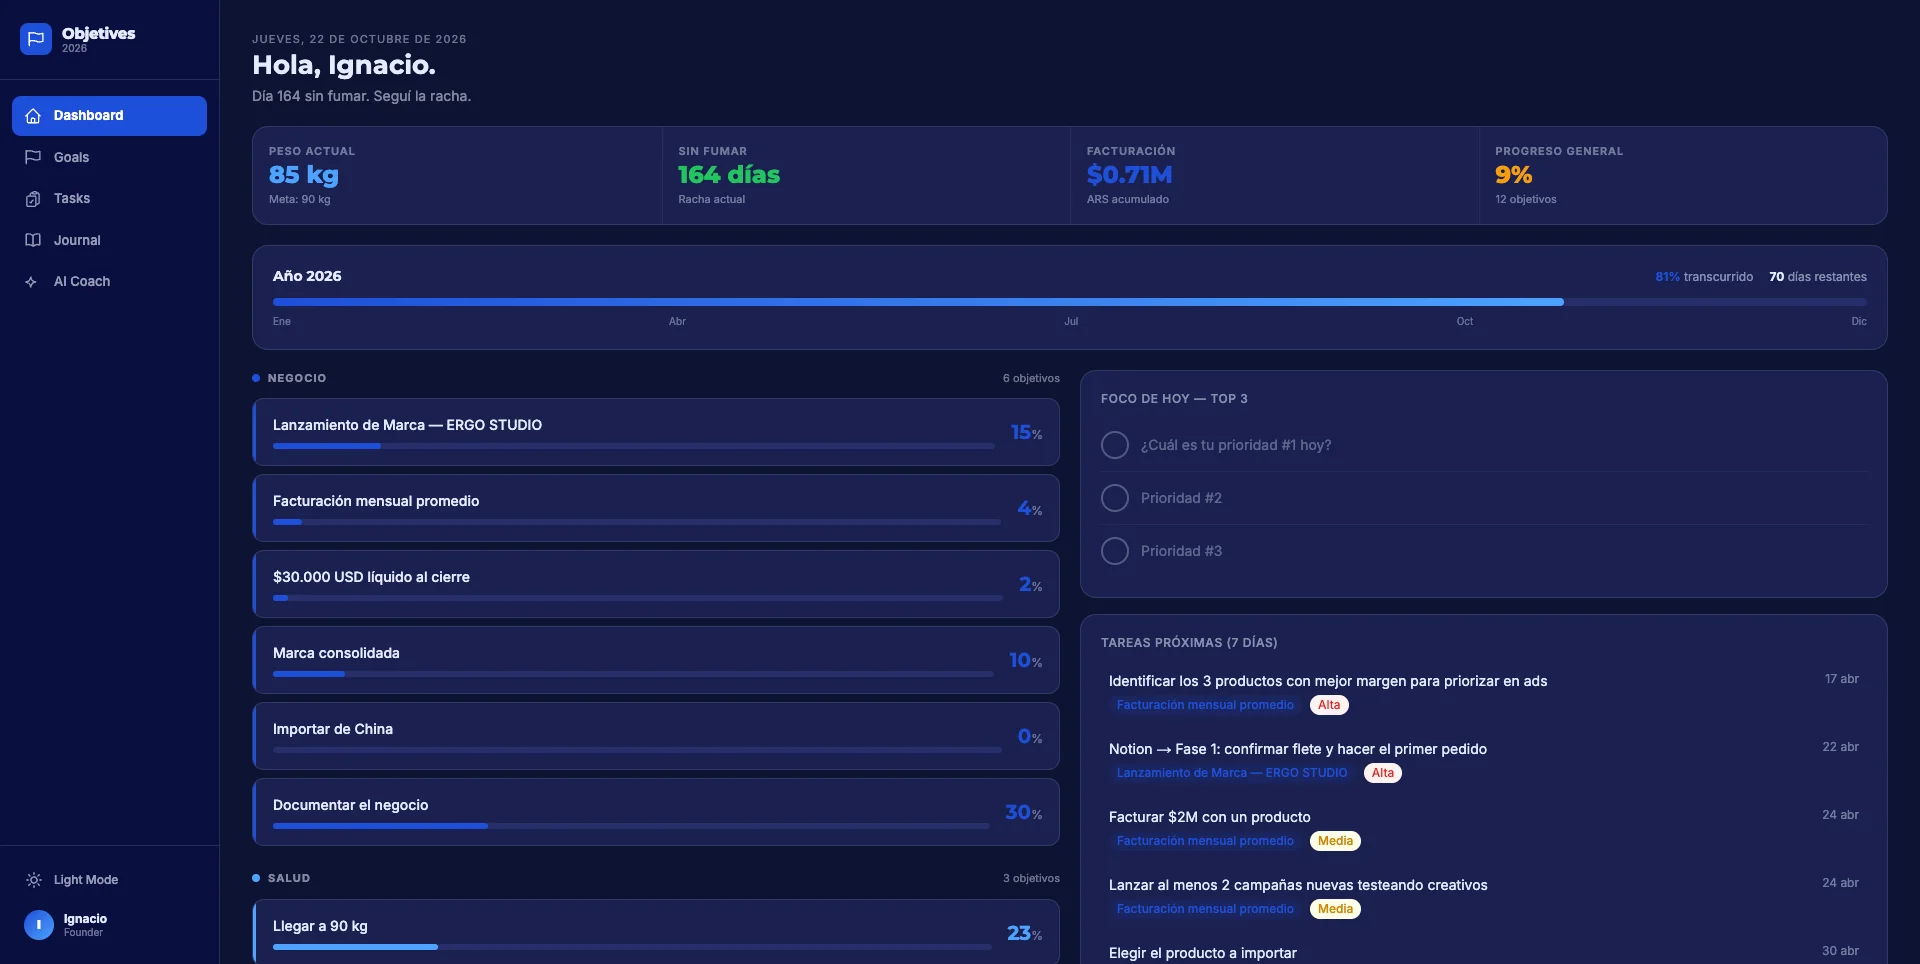
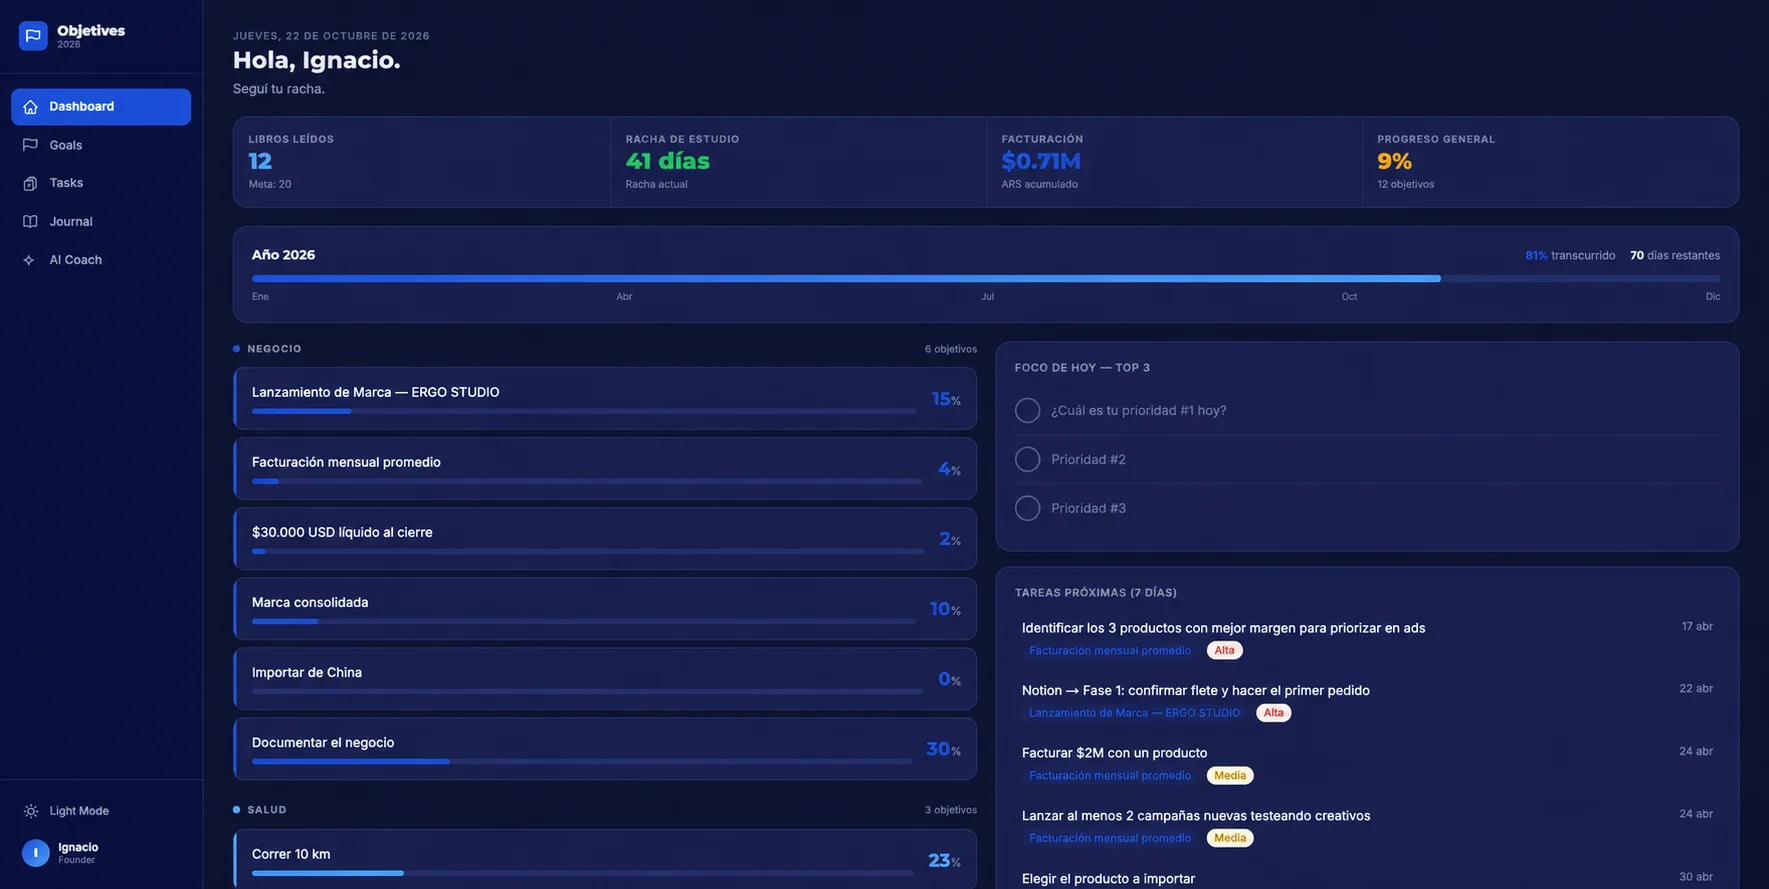
Rediseño de secciones, selector y aviso propios, burbuja de chat, recorte y modal de capturas
- Proyectos: marco de ventana, recorte por proyecto (crop en i18n) y modal con la captura completa.
- Otros: marcador +/×, meta en Geist. Stack: filas por grupo, items sin caja.
- Select.astro y FieldError.astro reemplazan el select y el globo de validación nativos.
- Chat: barra pasa a burbuja con panel, globito de invitación a los 7s y pulso hasta la primera apertura.
- Dial: Inicio exacto arriba de todo, mejor contraste y alineación. Etiquetas en minúsculas.
- Capturas de Objetivos y Transporte sin datos personales.

diff --git a/src/i18n.ts b/src/i18n.ts
@@ -18,7 +18,7 @@ export const t = {
     stack: ['APIs REST', 'Bases de datos relacionales', 'Integraciones con servicios externos', 'IA aplicada'],
     proy: ['Transporte', 'Caja de feria', 'Miami Getaway', 'Objetivos con IA'],
     cont: 'Escribime directo o dejá tu pregunta en el chat de abajo.',
-    chat: { ph: 'Preguntame por mis proyectos…', label: 'Pregunta', send: 'Enviar', left: 'te quedan {n} preguntas hoy', wait: 'Pensando…', limit: 'Llegaste al límite de hoy. Escribime por mail y te respondo yo.', err: 'No pude responder ahora. Probá de nuevo en un rato o escribime por mail.' },
+    chat: { title: 'Preguntale a mi asistente', greet: 'Preguntame por mis proyectos, el stack o cómo trabajo.', nudge: 'Preguntame por mis proyectos', open: 'Abrir el chat', close: 'Cerrar el chat', ph: 'Escribí tu pregunta…', label: 'Pregunta', send: 'Enviar', left: 'te quedan {n} preguntas hoy', wait: 'Pensando…', limit: 'Llegaste al límite de hoy. Escribime por mail y te respondo yo.', err: 'No pude responder ahora. Probá de nuevo en un rato o escribime por mail.' },
     links: [['proyectos', '~/proyectos', '↵'], ['otros', '~/stack', '↵'], ['contacto', '~/contacto', '↵']],
     hStack: 'Con qué trabajo',
     subStack: 'Las herramientas que uso día a día para llevar un sistema de la idea a producción.',
@@ -26,27 +26,27 @@ export const t = {
     hOther: 'Otros proyectos',
     subOther: 'Más sistemas, resumidos. Tocá uno para abrirlo.',
     others: [
-      { name: 'Libretita', meta: 'app para oficios · piloto', desc: 'App de celular para el herrero, mecánico, electricista o plomero que trabaja solo y hoy lleva todo en una libreta y en WhatsApp. Arma presupuestos que el cliente acepta desde un link y los baja a PDF, anota trabajos, cobros y gastos, y dice cuánto le quedó en el mes. Está en piloto en San Francisco.' },
-      { name: 'Control de flota', meta: 'mantenimiento · constructora', desc: 'Reemplaza el Excel de horas y kilómetros de los 48 equipos de una constructora y avisa qué services están vencidos, que antes nadie veía.' },
+      { name: 'Libretita', meta: 'app para oficios, piloto', desc: 'App de celular para el herrero, mecánico, electricista o plomero que trabaja solo y hoy lleva todo en una libreta y en WhatsApp. Arma presupuestos que el cliente acepta desde un link y los baja a PDF, anota trabajos, cobros y gastos, y dice cuánto le quedó en el mes. Está en piloto en San Francisco.' },
+      { name: 'Control de flota', meta: 'mantenimiento, constructora', desc: 'Reemplaza el Excel de horas y kilómetros de los 48 equipos de una constructora y avisa qué services están vencidos, que antes nadie veía.' },
       { name: 'Centro de control de organIA', meta: 'agencia', desc: 'Panel de mi agencia para todo el ciclo de un cliente: lead, propuesta, onboarding, tickets y cobros. Los sistemas de cada cliente le reportan tickets y su estado por API.' },
-      { name: 'Backoffice de e-commerce', meta: 'administración · IA', desc: 'Sistema interno que contesta cuánta plata entró y salió y qué se viene a cobrar. Un agente de IA anticipa cuándo va a hacer falta pedir más stock y analiza en qué se van los gastos.' },
-      { name: 'Finanzas personales', meta: 'app propia · IA', desc: 'App de uso propio para ordenar ingresos y gastos, con un agente de IA que analiza mis finanzas. Por un bot de Telegram me manda avisos y recibe gastos e ingresos. También analiza mi cartera de inversión según mi perfil de inversor y cada día me reporta el cierre del mercado, resaltando las acciones que tengo.' },
-      { name: 'App de escritorio con Electron', meta: 'escritorio · migración', desc: 'Migración de tecnología para Coliseo San Francisco: la aplicación de escritorio de su ERP pasó de .NET a JavaScript, empaquetada con Electron. Hoy los clientes del ERP usan la nueva versión en lugar de la de .NET, y la migración bajó el arranque de 7 segundos a 2.' },
+      { name: 'Backoffice de e-commerce', meta: 'administración, IA', desc: 'Sistema interno que contesta cuánta plata entró y salió y qué se viene a cobrar. Un agente de IA anticipa cuándo va a hacer falta pedir más stock y analiza en qué se van los gastos.' },
+      { name: 'Finanzas personales', meta: 'app propia, IA', desc: 'App de uso propio para ordenar ingresos y gastos, con un agente de IA que analiza mis finanzas. Por un bot de Telegram me manda avisos y recibe gastos e ingresos. También analiza mi cartera de inversión según mi perfil de inversor y cada día me reporta el cierre del mercado, resaltando las acciones que tengo.' },
+      { name: 'App de escritorio con Electron', meta: 'escritorio, migración', desc: 'Migración de tecnología para Coliseo San Francisco: la aplicación de escritorio de su ERP pasó de .NET a JavaScript, empaquetada con Electron. Hoy los clientes del ERP usan la nueva versión en lugar de la de .NET, y la migración bajó el arranque de 7 segundos a 2.' },
       { name: 'Logística de cereal en WinForms', meta: 'escritorio', desc: 'Aplicación de escritorio para ordenar un negocio que conecta camioneros con productores de cereal para llevar sus cosechas al puerto. Guarda todos los viajes y, en cada uno, la carta de porte, los pagos y los adelantos.' },
     ],
     hContact: 'Hablemos',
     subContact: '¿Tenés un sistema para construir, o un equipo que busca desarrollador? Escribime.',
     copy: 'Copiar',
-    kContact: 'Contacto',
-    form: { name: 'Nombre', mail: 'Email', reason: 'Motivo', reasons: ['Un sistema para mi negocio', 'Oferta laboral', 'Otra cosa'], msg: 'Mensaje', msgPh: 'Contame qué necesitás', send: 'Enviar mensaje', ok: 'Mensaje enviado. Te respondo pronto.', err: 'No se pudo enviar. Escribime a' },
+    form: { name: 'Nombre', mail: 'Email', reason: 'Motivo', reasons: ['Un sistema para mi negocio', 'Oferta laboral', 'Otra cosa'], msg: 'Mensaje', msgPh: 'Contame qué necesitás', send: 'Enviar mensaje', required: 'Completá este campo', badMail: 'Poné un email válido', ok: 'Mensaje enviado. Te respondo pronto.', err: 'No se pudo enviar. Escribime a' },
+    zoom: 'Ver completa', closeShot: 'Cerrar',
     hProj: 'Lo que construí, y para qué servía',
     subProj: 'Cuatro sistemas a fondo: qué problema resolvían y cómo están hechos.',
     shot: 'captura (reemplazar)',
     cases: [
-      { tag: 'SaaS multi-tenant', name: 'Transporte', img: '/proyectos/transporte.webp', desc: 'Nació para un camionero que quería saber cuánto gana en cada viaje. Registra kilómetros, litros y gastos, calcula la ganancia de cada viaje y anota los cobros en efectivo y en cheques de terceros, con un tablero por mes. Cada empresa de transporte ve solo sus datos.', chips: ['Next.js', 'NestJS', 'Prisma', 'PostgreSQL'] },
-      { tag: 'Punto de venta', name: 'Caja de feria', img: '/proyectos/caja-de-feria.webp', desc: 'Reemplazó la carga a mano de un puesto de librería en una feria. Los vendedores toman pedidos desde el celular, la caja los recibe en tiempo real y el stock se descuenta solo, incluso si se anula un cobro. Reportes exportables a Excel y PDF, y varios negocios aislados entre sí.', chips: ['Next.js', 'Supabase Realtime', 'Playwright'] },
-      { tag: 'Alquileres · reservas', name: 'Miami Getaway', img: '/proyectos/miami-getaway.webp', desc: 'Alquiler de apartamentos, villas, yates y autos en Miami: reservas, fotos de cada propiedad y reseñas sincronizadas desde Google. Detrás, un panel de administración desde donde el dueño maneja el negocio completo: propiedades, reservas, clientes, pagos, proveedores, comprobantes en PDF y un resumen mensual de cómo le fue.', chips: ['React', 'Express', 'PostgreSQL', 'Cloudinary'] },
-      { tag: 'App personal · IA', name: 'Objetivos con IA', img: '/proyectos/objetivos-con-ia.webp', desc: 'App para fijar y seguir objetivos, con un coach de IA que antes de responder lee tus objetivos, tareas pendientes y reflexiones, compara tu avance con el del año y te dice honestamente qué está atrasado. Recuerda lo que le contaste entre conversaciones y propone hasta 3 tareas que agregás con un clic.', chips: ['Next.js', 'Supabase', 'Claude API', 'Streaming'] },
+      { tag: 'SaaS multi-tenant', name: 'Transporte', img: '/proyectos/transporte.webp', crop: [270, 170, 1080], desc: 'Nació para un camionero que quería saber cuánto gana en cada viaje. Registra kilómetros, litros y gastos, calcula la ganancia de cada viaje y anota los cobros en efectivo y en cheques de terceros, con un tablero por mes. Cada empresa de transporte ve solo sus datos.', chips: ['Next.js', 'NestJS', 'Prisma', 'PostgreSQL'] },
+      { tag: 'Punto de venta', name: 'Caja de feria', img: '/proyectos/caja-de-feria.webp', crop: [230, 95, 1110], desc: 'Reemplazó la carga a mano de un puesto de librería en una feria. Los vendedores toman pedidos desde el celular, la caja los recibe en tiempo real y el stock se descuenta solo, incluso si se anula un cobro. Reportes exportables a Excel y PDF, y varios negocios aislados entre sí.', chips: ['Next.js', 'Supabase Realtime', 'Playwright'] },
+      { tag: 'Alquileres · reservas', name: 'Miami Getaway', img: '/proyectos/miami-getaway.webp', crop: [48, 200, 1100], desc: 'Alquiler de apartamentos, villas, yates y autos en Miami: reservas, fotos de cada propiedad y reseñas sincronizadas desde Google. Detrás, un panel de administración desde donde el dueño maneja el negocio completo: propiedades, reservas, clientes, pagos, proveedores, comprobantes en PDF y un resumen mensual de cómo le fue.', chips: ['React', 'Express', 'PostgreSQL', 'Cloudinary'] },
+      { tag: 'App personal · IA', name: 'Objetivos con IA', img: '/proyectos/objetivos-con-ia.webp', crop: [245, 245, 830], desc: 'App para fijar y seguir objetivos, con un coach de IA que antes de responder lee tus objetivos, tareas pendientes y reflexiones, compara tu avance con el del año y te dice honestamente qué está atrasado. Recuerda lo que le contaste entre conversaciones y propone hasta 3 tareas que agregás con un clic.', chips: ['Next.js', 'Supabase', 'Claude API', 'Streaming'] },
     ],
   },
   en: {
@@ -67,7 +67,7 @@ export const t = {
     stack: ['REST APIs', 'Relational databases', 'Third-party integrations', 'Applied AI'],
     proy: ['Transport', 'Fair checkout', 'Miami Getaway', 'Goals with AI'],
     cont: 'Write to me directly or leave a question in the chat below.',
-    chat: { ph: 'Ask me about my projects…', label: 'Question', send: 'Send', left: '{n} questions left today', wait: 'Thinking…', limit: "You've hit today's limit. Email me and I'll answer myself.", err: "Couldn't answer right now. Try again later or email me." },
+    chat: { title: 'Ask my assistant', greet: 'Ask me about my projects, the stack or how I work.', nudge: 'Ask me about my projects', open: 'Open the chat', close: 'Close the chat', ph: 'Type your question…', label: 'Question', send: 'Send', left: '{n} questions left today', wait: 'Thinking…', limit: "You've hit today's limit. Email me and I'll answer myself.", err: "Couldn't answer right now. Try again later or email me." },
     links: [['proyectos', '~/projects', '↵'], ['otros', '~/more', '↵'], ['contacto', '~/contact', '↵']],
     hStack: 'What I work with',
     subStack: 'The tools I use every day to take a system from idea to production.',
@@ -75,27 +75,27 @@ export const t = {
     hOther: 'More projects',
     subOther: 'More systems, short. Tap one to open it.',
     others: [
-      { name: 'Libretita', meta: 'trades app · pilot', desc: 'Phone app for the solo blacksmith, mechanic, electrician or plumber who still keeps everything in a notebook and WhatsApp. It builds quotes the client accepts from a link and exports them to PDF, logs jobs, payments and expenses, and shows how much was left over in the month. Running as a pilot in San Francisco.' },
-      { name: 'Fleet control', meta: 'maintenance · construction', desc: "Replaces the hours-and-kilometers spreadsheet for a construction company's 48 machines and flags overdue services that nobody used to see." },
+      { name: 'Libretita', meta: 'trades app, pilot', desc: 'Phone app for the solo blacksmith, mechanic, electrician or plumber who still keeps everything in a notebook and WhatsApp. It builds quotes the client accepts from a link and exports them to PDF, logs jobs, payments and expenses, and shows how much was left over in the month. Running as a pilot in San Francisco.' },
+      { name: 'Fleet control', meta: 'maintenance, construction', desc: "Replaces the hours-and-kilometers spreadsheet for a construction company's 48 machines and flags overdue services that nobody used to see." },
       { name: 'organIA control center', meta: 'agency', desc: "My agency's panel for a client's whole cycle: lead, proposal, onboarding, tickets and billing. Each client's system reports tickets and health to it over an API." },
-      { name: 'E-commerce back office', meta: 'admin · AI', desc: 'Internal system that answers how much money came in and out and what is due to be collected. An AI agent predicts when more stock will need to be ordered and analyzes where the expenses go.' },
-      { name: 'Personal finances', meta: 'own app · AI', desc: 'App for my own use to sort income and expenses, with an AI agent that analyzes my finances. Through a Telegram bot it sends me alerts and takes in expenses and income. It also analyzes my investment portfolio against my investor profile and every day reports the market close, highlighting the stocks I hold.' },
-      { name: 'Desktop app with Electron', meta: 'desktop · migration', desc: "Technology migration for Coliseo San Francisco: their ERP's desktop application moved from .NET to JavaScript, packaged with Electron. The ERP's clients now use the new version instead of the .NET one, and the migration cut startup from 7 seconds to 2." },
+      { name: 'E-commerce back office', meta: 'admin, AI', desc: 'Internal system that answers how much money came in and out and what is due to be collected. An AI agent predicts when more stock will need to be ordered and analyzes where the expenses go.' },
+      { name: 'Personal finances', meta: 'own app, AI', desc: 'App for my own use to sort income and expenses, with an AI agent that analyzes my finances. Through a Telegram bot it sends me alerts and takes in expenses and income. It also analyzes my investment portfolio against my investor profile and every day reports the market close, highlighting the stocks I hold.' },
+      { name: 'Desktop app with Electron', meta: 'desktop, migration', desc: "Technology migration for Coliseo San Francisco: their ERP's desktop application moved from .NET to JavaScript, packaged with Electron. The ERP's clients now use the new version instead of the .NET one, and the migration cut startup from 7 seconds to 2." },
       { name: 'Grain logistics in WinForms', meta: 'desktop', desc: 'Desktop application to organize a business that connects truckers with grain producers to haul their harvests to port. It keeps every trip and, for each one, the waybill, payments and advances.' },
     ],
     hContact: "Let's talk",
     subContact: 'Got a system to build, or a team looking for a developer? Write to me.',
     copy: 'Copy',
-    kContact: 'Contact',
-    form: { name: 'Name', mail: 'Email', reason: 'Reason', reasons: ['A system for my business', 'Job offer', 'Something else'], msg: 'Message', msgPh: 'Tell me what you need', send: 'Send message', ok: 'Message sent. I will reply soon.', err: 'Could not send. Write to me at' },
+    form: { name: 'Name', mail: 'Email', reason: 'Reason', reasons: ['A system for my business', 'Job offer', 'Something else'], msg: 'Message', msgPh: 'Tell me what you need', send: 'Send message', required: 'Fill in this field', badMail: 'Enter a valid email', ok: 'Message sent. I will reply soon.', err: 'Could not send. Write to me at' },
+    zoom: 'View full', closeShot: 'Close',
     hProj: 'What I built, and what it was for',
     subProj: 'Four systems in depth: the problem each solved and how it is built.',
     shot: 'screenshot (replace)',
     cases: [
-      { tag: 'Multi-tenant SaaS', name: 'Transport', img: '/proyectos/transporte.webp', desc: 'Built for a trucker who wanted to know how much he makes on each trip. It logs kilometers, liters and expenses, calculates the profit of every trip and records payments in cash and third-party checks, with a monthly dashboard. Each transport company only sees its own data.', chips: ['Next.js', 'NestJS', 'Prisma', 'PostgreSQL'] },
-      { tag: 'Point of sale', name: 'Fair checkout', img: '/proyectos/caja-de-feria.webp', desc: 'It replaced manual bookkeeping at a stationery stall in a fair. Sellers take orders on their phones, the checkout receives them in real time and stock is deducted automatically, even when a payment is voided. Reports export to Excel and PDF, and several businesses run isolated from each other.', chips: ['Next.js', 'Supabase Realtime', 'Playwright'] },
-      { tag: 'Rentals · bookings', name: 'Miami Getaway', img: '/proyectos/miami-getaway.webp', desc: 'Apartment, villa, yacht and car rentals in Miami: bookings, photos for every property and reviews synced from Google. Behind it, an admin panel where the owner runs the whole business: properties, bookings, clients, payments, suppliers, PDF receipts and a monthly summary of how it went.', chips: ['React', 'Express', 'PostgreSQL', 'Cloudinary'] },
-      { tag: 'Personal app · AI', name: 'Goals with AI', img: '/proyectos/objetivos-con-ia.webp', desc: "App to set and track goals, with an AI coach that reads your goals, pending tasks and reflections before answering, compares your progress with the year's and tells you honestly what is behind. It remembers what you told it across conversations and suggests up to 3 tasks you add with one click.", chips: ['Next.js', 'Supabase', 'Claude API', 'Streaming'] },
+      { tag: 'Multi-tenant SaaS', name: 'Transport', img: '/proyectos/transporte.webp', crop: [270, 170, 1080], desc: 'Built for a trucker who wanted to know how much he makes on each trip. It logs kilometers, liters and expenses, calculates the profit of every trip and records payments in cash and third-party checks, with a monthly dashboard. Each transport company only sees its own data.', chips: ['Next.js', 'NestJS', 'Prisma', 'PostgreSQL'] },
+      { tag: 'Point of sale', name: 'Fair checkout', img: '/proyectos/caja-de-feria.webp', crop: [230, 95, 1110], desc: 'It replaced manual bookkeeping at a stationery stall in a fair. Sellers take orders on their phones, the checkout receives them in real time and stock is deducted automatically, even when a payment is voided. Reports export to Excel and PDF, and several businesses run isolated from each other.', chips: ['Next.js', 'Supabase Realtime', 'Playwright'] },
+      { tag: 'Rentals · bookings', name: 'Miami Getaway', img: '/proyectos/miami-getaway.webp', crop: [48, 200, 1100], desc: 'Apartment, villa, yacht and car rentals in Miami: bookings, photos for every property and reviews synced from Google. Behind it, an admin panel where the owner runs the whole business: properties, bookings, clients, payments, suppliers, PDF receipts and a monthly summary of how it went.', chips: ['React', 'Express', 'PostgreSQL', 'Cloudinary'] },
+      { tag: 'Personal app · AI', name: 'Goals with AI', img: '/proyectos/objetivos-con-ia.webp', crop: [245, 245, 830], desc: "App to set and track goals, with an AI coach that reads your goals, pending tasks and reflections before answering, compares your progress with the year's and tells you honestly what is behind. It remembers what you told it across conversations and suggests up to 3 tasks you add with one click.", chips: ['Next.js', 'Supabase', 'Claude API', 'Streaming'] },
     ],
   },
 } as const;

diff --git a/src/styles/global.css b/src/styles/global.css
@@ -33,7 +33,7 @@ html { scroll-behavior: smooth; }
 body {
   margin: 0; background: var(--bg); color: var(--fg); font-family: var(--f-body); font-size: 16px; line-height: 1.6;
   padding-left: max(16px, env(safe-area-inset-left, 0px)); padding-right: max(16px, env(safe-area-inset-right, 0px));
-  padding-block: 0 160px;
+  padding-block: 0 96px;
 }
 a { color: inherit; }
 button { font: inherit; color: inherit; cursor: pointer; }
